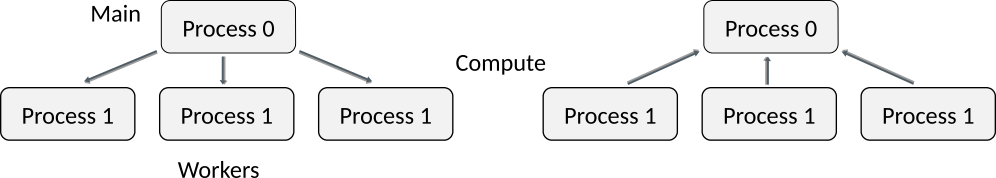
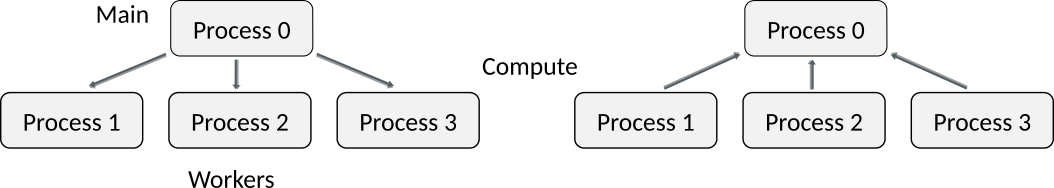
Fixed broken link and comm pattern image proc ids

diff --git a/mpi/docs/01-intro-to-mpi.md b/mpi/docs/01-intro-to-mpi.md
@@ -210,7 +210,7 @@ MPI_Barrier(`comm`{.input})
     - <http://mpi.deino.net/mpi_functions/>
     - <https://www.rookiehpc.com/mpi/docs/>
 - Good online MPI tutorials
-    - <https://computing.llnl.gov/tutorials/mpi>
+    - <https://hpc-tutorials.llnl.gov/mpi/>
     - <http://mpitutorial.com/tutorials/>
     - <https://www.youtube.com/watch?v=BPSgXQ9aUXY>
 - MPI coding game in C <br>
